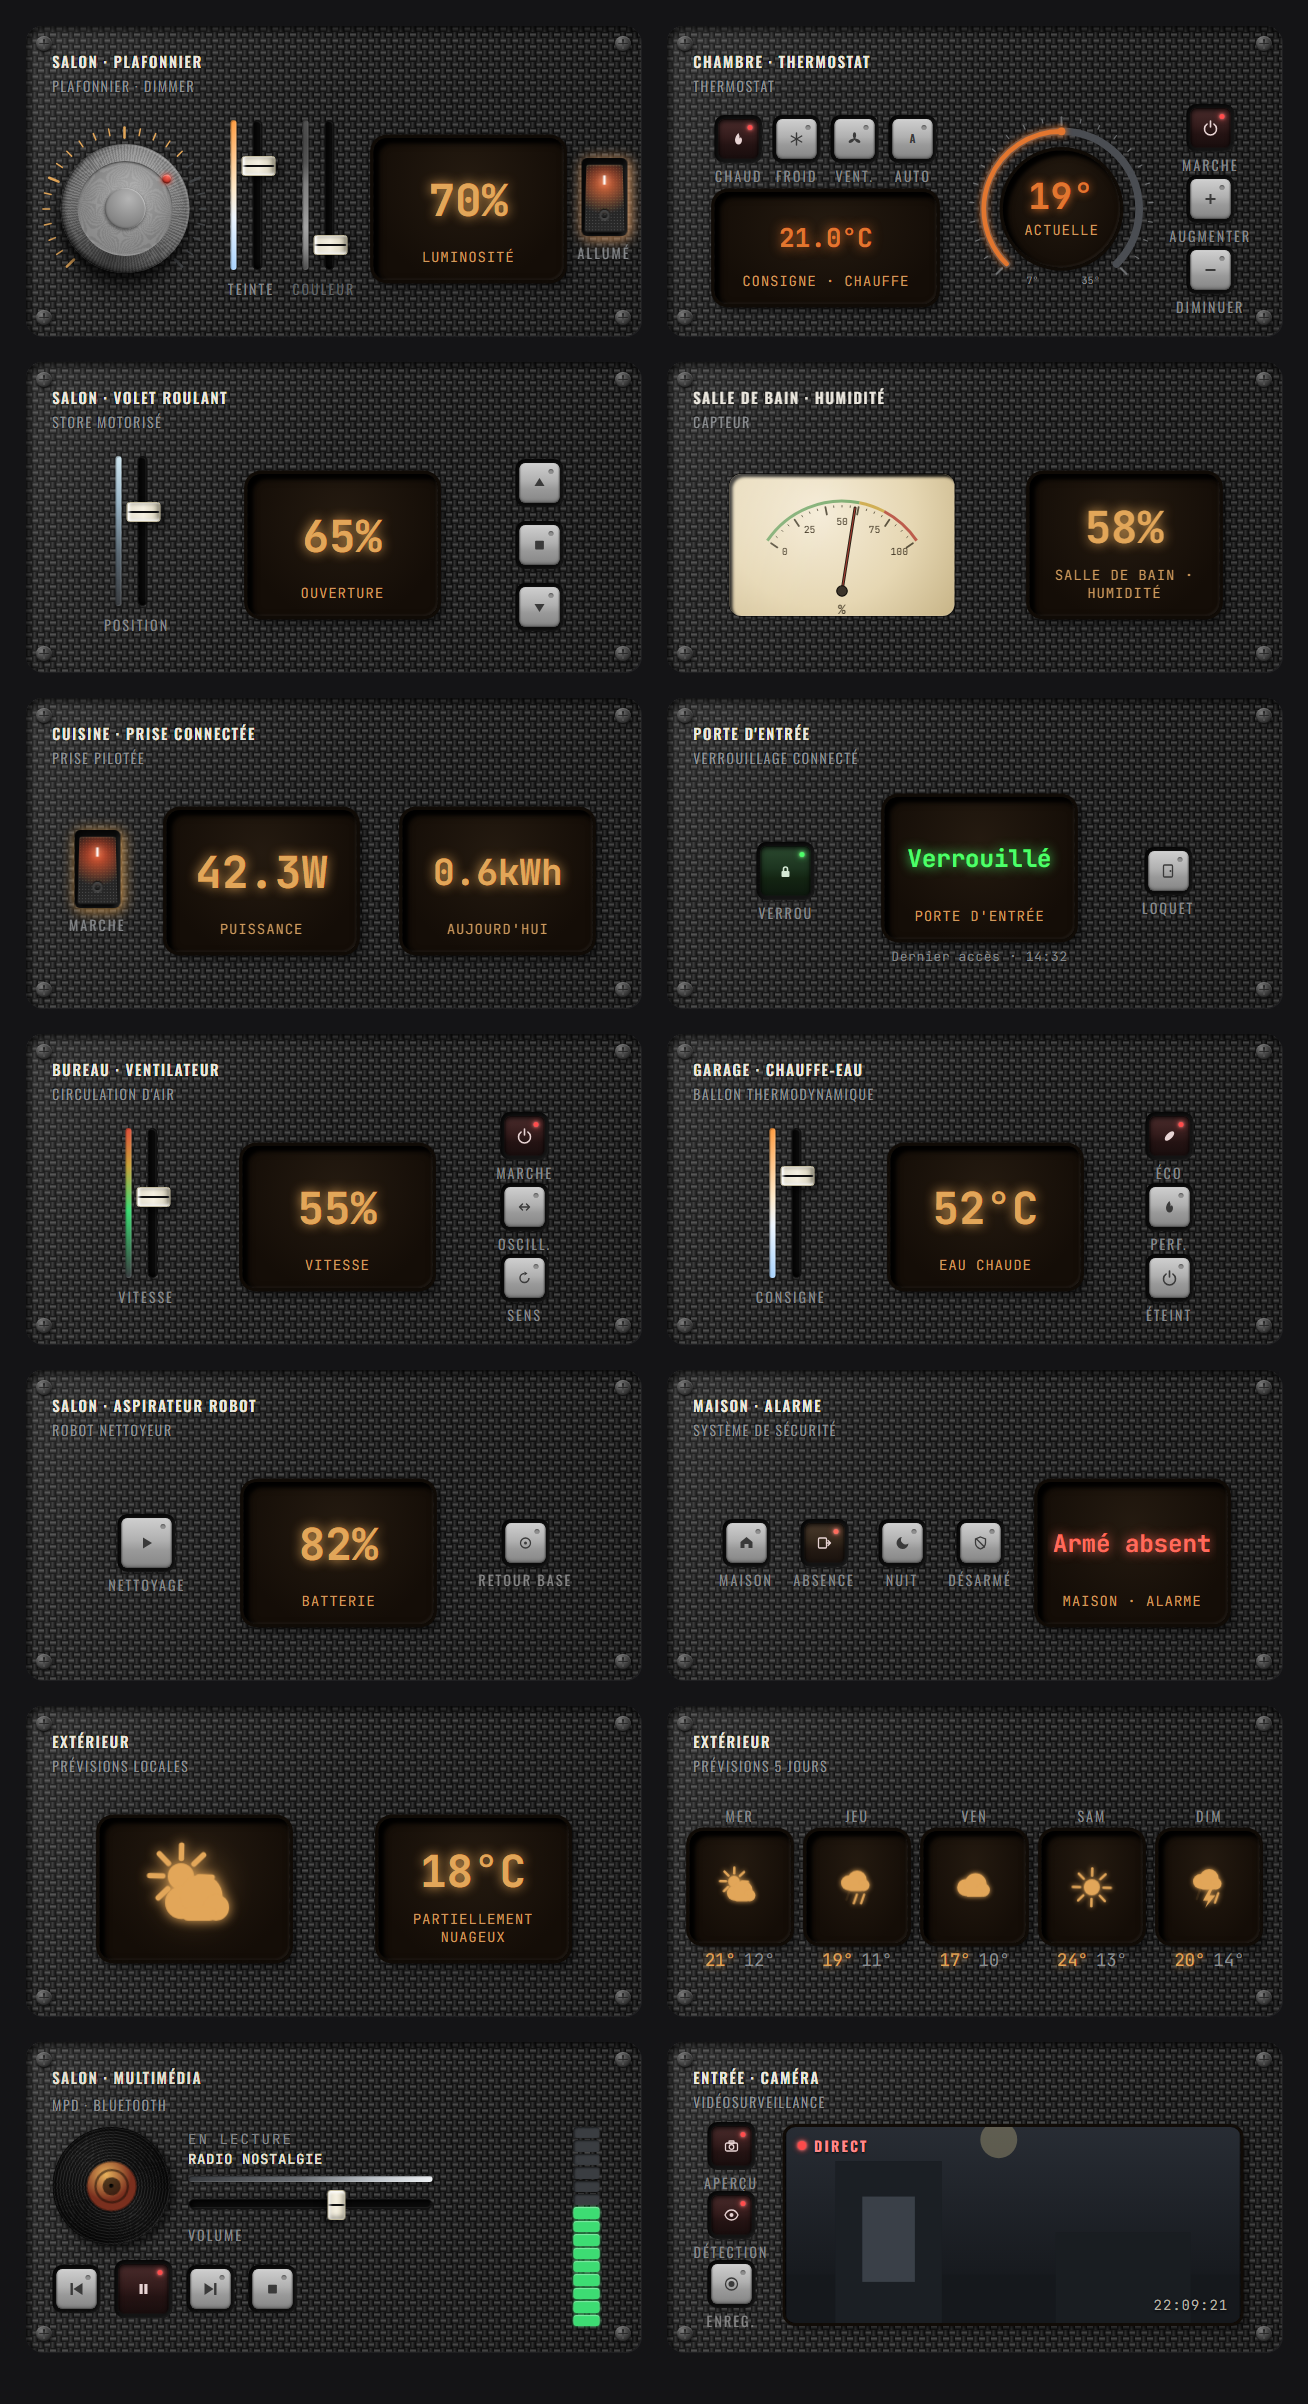
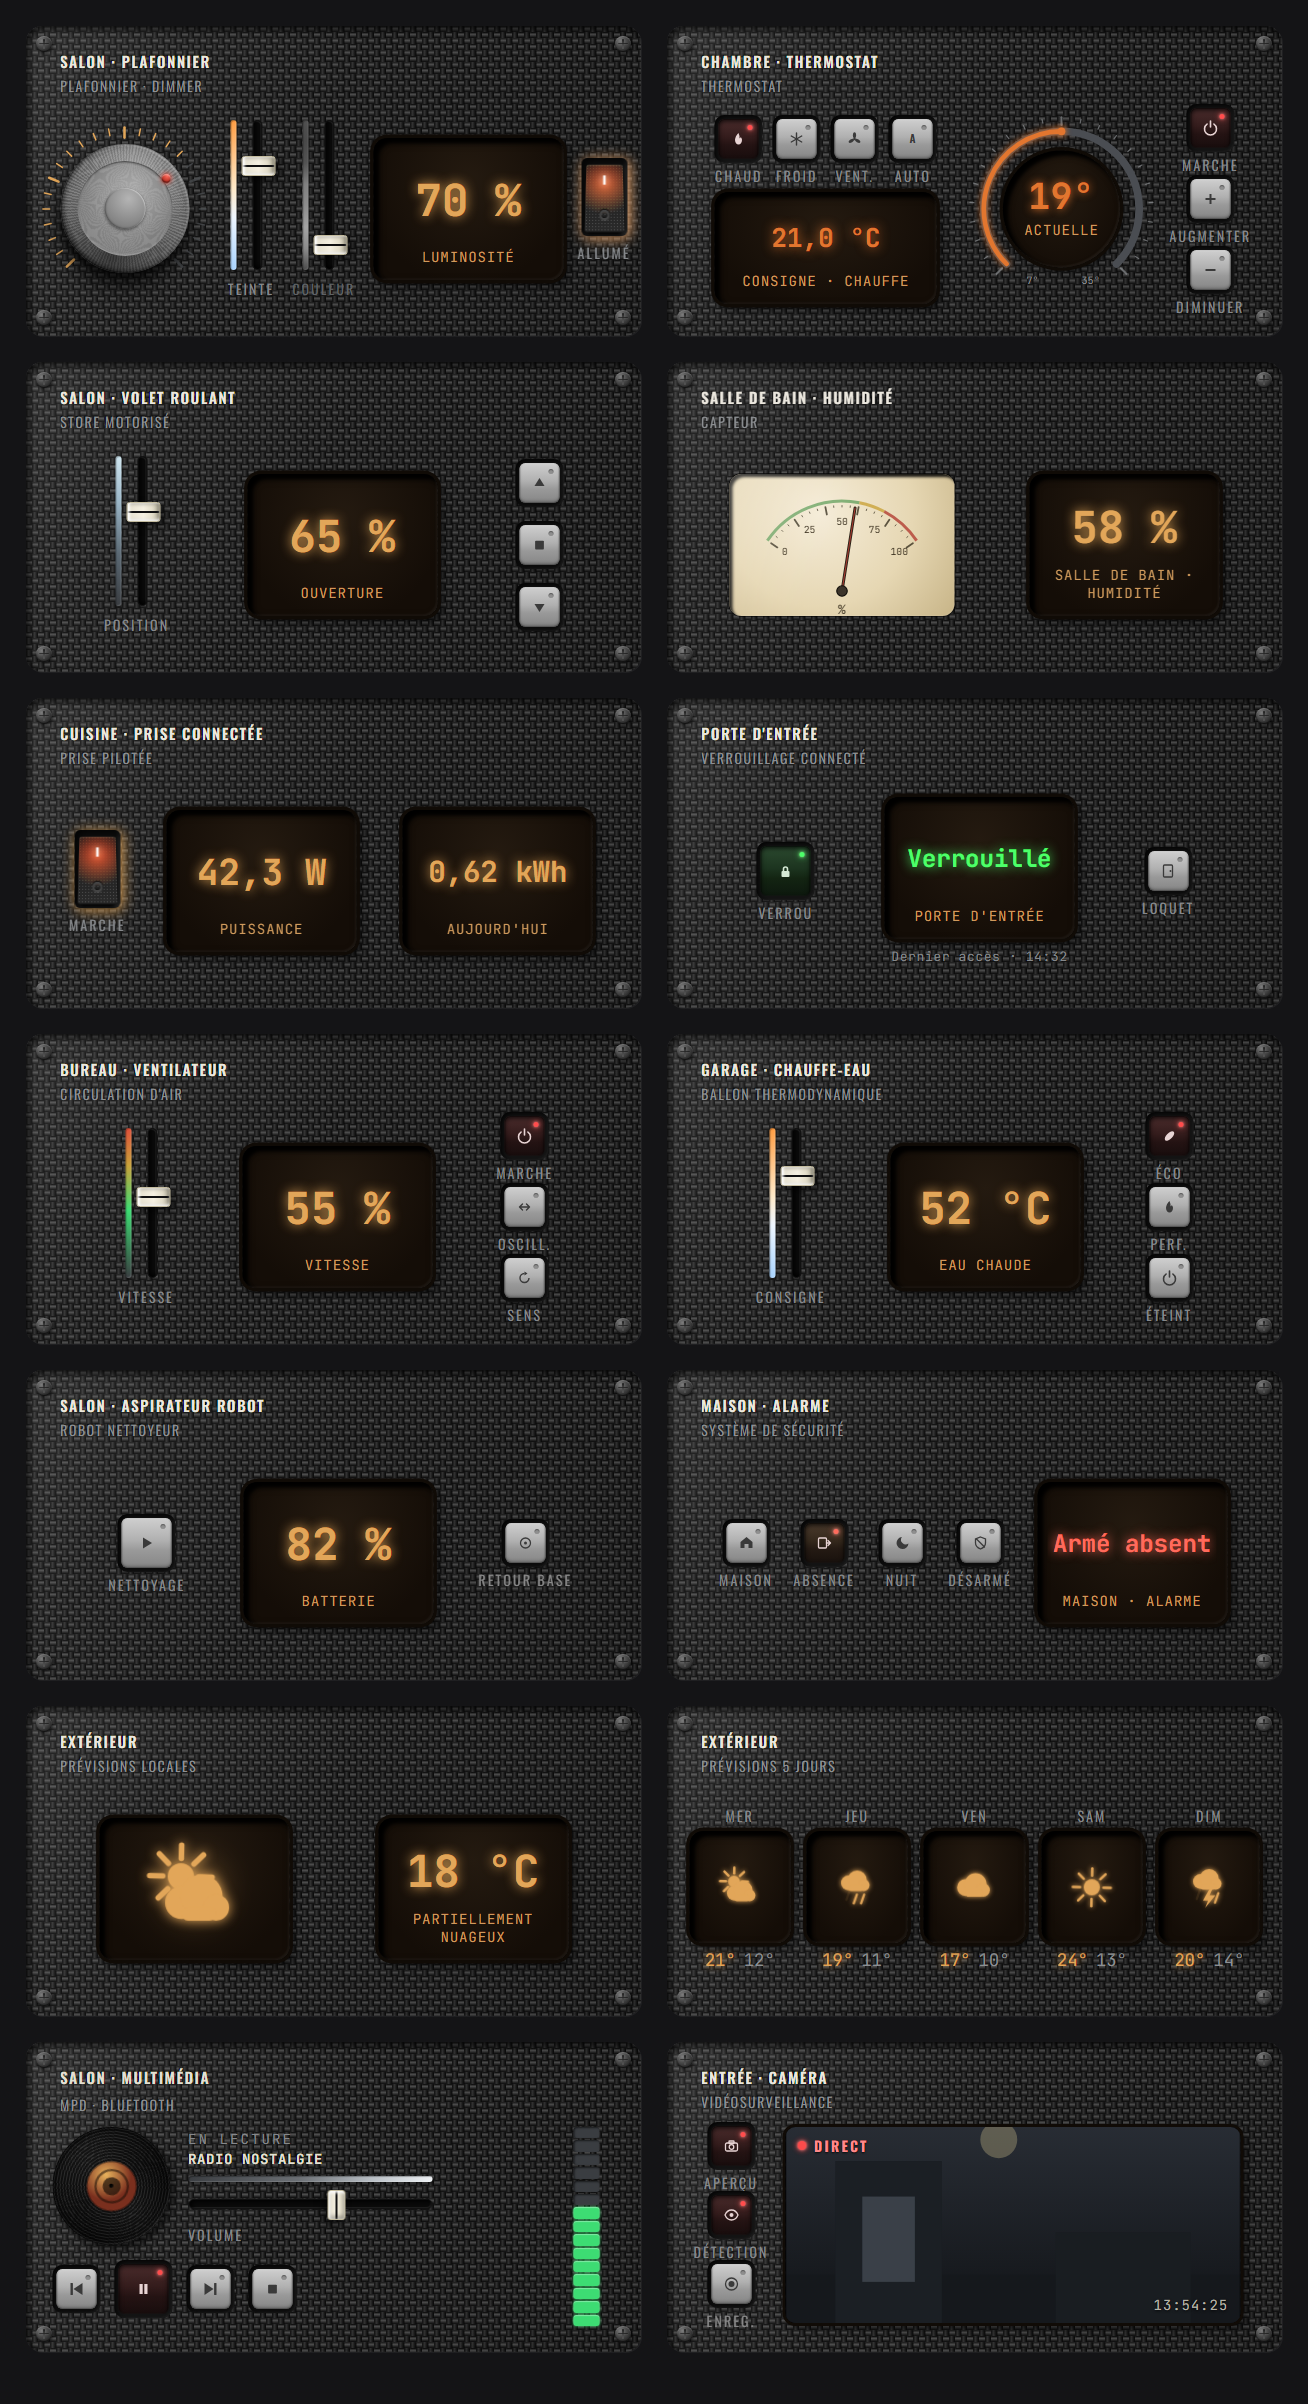
Hold the light card faders, refresh the README plates
The warmth and colour faders read the entity on every render and kept no
local value, so the cap dropped back to its previous position between the
gesture and the bulb's answer. Same defect as the other controls, other
cause, and it stayed after the first pass.

They get a plain hold rather than the smoothed value: a fader the user
has just placed must not glide on its own. HeldValue also asks for a
redraw on commit, otherwise the cap flicks back to the old position for
the interval between the gesture and the next hass tick, which is the
same defect made short.

Both README plates are regenerated with the current formatting: they
still showed 70% and 21.0°C glued.

diff --git a/dist/skeuo-cards.js b/dist/skeuo-cards.js
@@ -1747,6 +1747,57 @@ const shortTime = (iso, language) => {
   if (Number.isNaN(date.getTime())) return "";
   return date.toLocaleTimeString(language, { hour: "2-digit", minute: "2-digit" });
 };
+const PENDING_TIMEOUT$1 = 6e3;
+const now$1 = () => typeof performance !== "undefined" ? performance.now() : Date.now();
+const TICK$1 = "__skeuoHeldTick";
+class HeldValue {
+  /**
+   * L'hôte est facultatif, mais sans lui rien ne redessine la carte entre le
+   * geste et le prochain battement de `hass`. Le fader retomberait alors sur
+   * l'ancienne valeur le temps de cet intervalle, ce qui est précisément le
+   * défaut que cette classe corrige.
+   */
+  constructor(host) {
+    this._seq = 0;
+    this._pendingSince = 0;
+    this._host = host;
+  }
+  /**
+   * Valeur à afficher, connaissant celle de l'entité.
+   *
+   * Ce que l'on retient n'est pas la valeur demandée mais celle que l'entité
+   * annonçait au moment du geste : dès qu'elle en change, quelle qu'elle soit,
+   * on lui rend la main. Un appareil qui borne la demande, ou qui la refuse,
+   * reprend donc la main sans cas particulier.
+   */
+  read(fromState) {
+    if (this._pendingFrom === void 0) return fromState;
+    const attente = now$1() - this._pendingSince;
+    if (fromState !== this._pendingFrom || attente >= PENDING_TIMEOUT$1) {
+      this._pendingFrom = void 0;
+      this._local = void 0;
+      return fromState;
+    }
+    return this._local ?? fromState;
+  }
+  /** Consigne posée par l'utilisateur, à tenir jusqu'à confirmation. */
+  commit(value, fromState) {
+    if (!Number.isFinite(value)) return;
+    this._local = value;
+    this._pendingFrom = fromState;
+    this._pendingSince = now$1();
+    if (this._host) {
+      const previous = this._seq;
+      this._host[TICK$1] = ++this._seq;
+      this._host.requestUpdate(TICK$1, previous);
+    }
+  }
+  /** Au démontage, ce que dit l'entité fait autorité. */
+  reset() {
+    this._pendingFrom = void 0;
+    this._local = void 0;
+  }
+}
 const TICK = "__skeuoSmoothTick";
 const easeInOutCubic = (t2) => t2 < 0.5 ? 4 * t2 * t2 * t2 : 1 - Math.pow(-2 * t2 + 2, 3) / 2;
 const prefersReducedMotion = () => typeof matchMedia === "function" && matchMedia("(prefers-reduced-motion: reduce)").matches;
@@ -2779,6 +2830,8 @@ let SkeuoLightCard = class extends SkeuoBaseCard {
   constructor() {
     super(...arguments);
     this._brightness = new SmoothValue(this);
+    this._warmth = new HeldValue(this);
+    this._hue = new HeldValue(this);
   }
   validateConfig(config) {
     this.expectDomain(config, "light");
@@ -2878,14 +2931,20 @@ let SkeuoLightCard = class extends SkeuoBaseCard {
     const span = this._maxKelvin - this._minKelvin;
     return Math.round(this._maxKelvin - warmth / 100 * span);
   }
-  _currentWarmth(stateObj) {
+  _warmthFromState(stateObj) {
     const k2 = numericState(stateObj.attributes.color_temp_kelvin);
     return k2 === void 0 ? 50 : this._warmthFromKelvin(k2);
   }
-  _currentHue(stateObj) {
+  _currentWarmth(stateObj) {
+    return this._warmth.read(this._warmthFromState(stateObj));
+  }
+  _hueFromState(stateObj) {
     const hs = stateObj.attributes.hs_color;
     if (!Array.isArray(hs) || hs.length < 1) return 0;
     return Math.round(hs[0] / 360 * 100);
+  }
+  _currentHue(stateObj) {
+    return this._hue.read(this._hueFromState(stateObj));
   }
   /**
    * Couleur émise par l'ampoule, pour la lueur et le symbole de l'interrupteur.
@@ -2934,9 +2993,12 @@ let SkeuoLightCard = class extends SkeuoBaseCard {
     this.callService("light", "turn_on", { brightness_pct: cible });
   }
   _setWarmth(warmth) {
+    const stateObj = this.stateObj;
+    if (stateObj) this._warmth.commit(warmth, this._warmthFromState(stateObj));
     this.callService("light", "turn_on", { color_temp_kelvin: this._kelvinFromWarmth(warmth) });
   }
   _setHue(value, stateObj) {
+    this._hue.commit(value, this._hueFromState(stateObj));
     const hs = stateObj.attributes.hs_color;
     const saturation = Array.isArray(hs) && hs.length > 1 ? hs[1] : 100;
     this.callService("light", "turn_on", { hs_color: [value / 100 * 360, saturation] });
@@ -7160,7 +7222,7 @@ registerCard({
   preview: true
 });
 console.info(
-  `%c  SKEUO-CARDS  %c  v${"1.0.2-rc2"}  `,
+  `%c  SKEUO-CARDS  %c  v${"1.0.2-rc3"}  `,
   "color:#141414; font-weight:700; background:#e2a659",
   "color:#e2a659; font-weight:700; background:#141414"
 );

diff --git a/src/core/held.ts b/src/core/held.ts
@@ -1,0 +1,83 @@
+/**
+ * Tenue d'une valeur posée par l'utilisateur, sans animation.
+ *
+ * Même problème que dans SmoothValue : l'entité continue d'annoncer son
+ * ancienne valeur le temps que l'appareil réponde, et un contrôle recalé
+ * dessus repart en arrière juste après le geste. La différence est qu'ici on
+ * ne veut aucun mouvement interpolé, seulement que le curseur reste où le
+ * doigt l'a laissé. Un fader de teinte que l'on vient de placer n'a pas à
+ * glisser tout seul.
+ *
+ * Volontairement sans contrôleur ni image par image : la valeur est lue au
+ * rendu, et les rendus arrivent déjà à chaque changement de `hass`.
+ */
+
+/** Au-delà, la commande est considérée perdue et l'entité reprend la main. */
+const PENDING_TIMEOUT = 6000;
+
+const now = (): number =>
+  typeof performance !== "undefined" ? performance.now() : Date.now();
+
+/** Même mécanique que dans SmoothValue : un compteur réellement posé sur
+ *  l'hôte, sinon Lit compare deux `undefined` et annule la mise à jour. */
+const TICK = "__skeuoHeldTick";
+
+type HeldHost = {
+  requestUpdate(name?: PropertyKey, oldValue?: unknown): void;
+};
+
+export class HeldValue {
+  private _host?: HeldHost;
+  private _seq = 0;
+  private _local?: number;
+  private _pendingFrom?: number;
+  private _pendingSince = 0;
+
+  /**
+   * L'hôte est facultatif, mais sans lui rien ne redessine la carte entre le
+   * geste et le prochain battement de `hass`. Le fader retomberait alors sur
+   * l'ancienne valeur le temps de cet intervalle, ce qui est précisément le
+   * défaut que cette classe corrige.
+   */
+  constructor(host?: HeldHost) {
+    this._host = host;
+  }
+
+  /**
+   * Valeur à afficher, connaissant celle de l'entité.
+   *
+   * Ce que l'on retient n'est pas la valeur demandée mais celle que l'entité
+   * annonçait au moment du geste : dès qu'elle en change, quelle qu'elle soit,
+   * on lui rend la main. Un appareil qui borne la demande, ou qui la refuse,
+   * reprend donc la main sans cas particulier.
+   */
+  public read(fromState: number): number {
+    if (this._pendingFrom === undefined) return fromState;
+    const attente = now() - this._pendingSince;
+    if (fromState !== this._pendingFrom || attente >= PENDING_TIMEOUT) {
+      this._pendingFrom = undefined;
+      this._local = undefined;
+      return fromState;
+    }
+    return this._local ?? fromState;
+  }
+
+  /** Consigne posée par l'utilisateur, à tenir jusqu'à confirmation. */
+  public commit(value: number, fromState: number): void {
+    if (!Number.isFinite(value)) return;
+    this._local = value;
+    this._pendingFrom = fromState;
+    this._pendingSince = now();
+    if (this._host) {
+      const previous = this._seq;
+      (this._host as unknown as Record<string, unknown>)[TICK] = ++this._seq;
+      this._host.requestUpdate(TICK, previous);
+    }
+  }
+
+  /** Au démontage, ce que dit l'entité fait autorité. */
+  public reset(): void {
+    this._pendingFrom = undefined;
+    this._local = undefined;
+  }
+}

diff --git a/src/cards/light-card.ts b/src/cards/light-card.ts
@@ -13,6 +13,7 @@ import { type HassEntity, isActive, isUnavailable, numericState } from "../core/
 import { domainRequired, t, tHa } from "../core/localize";
 import { baseSchema, computeHelper, computeLabel, registerCard } from "../core/register";
 import { formatFixed } from "../core/format";
+import { HeldValue } from "../core/held";
 import { SmoothValue } from "../core/smooth";
 
 import "../components/screen";
@@ -89,6 +90,14 @@ export class SkeuoLightCard extends SkeuoBaseCard<LightCardConfig> {
    * défaut du contrôleur conviennent tels quels.
    */
   private _brightness = new SmoothValue(this);
+
+  /**
+   * Les deux faders ne sont pas lissés : on ne veut pas qu'un curseur que
+   * l'utilisateur vient de poser reparte tout seul. Ils ont en revanche le
+   * même besoin de tenir leur valeur le temps que la lampe confirme.
+   */
+  private _warmth = new HeldValue(this);
+  private _hue = new HeldValue(this);
 
   protected override validateConfig(config: LightCardConfig): void {
     this.expectDomain(config, "light");
@@ -215,15 +224,23 @@ export class SkeuoLightCard extends SkeuoBaseCard<LightCardConfig> {
     return Math.round(this._maxKelvin - (warmth / 100) * span);
   }
 
-  private _currentWarmth(stateObj: HassEntity): number {
+  private _warmthFromState(stateObj: HassEntity): number {
     const k = numericState(stateObj.attributes.color_temp_kelvin);
     return k === undefined ? 50 : this._warmthFromKelvin(k);
   }
 
-  private _currentHue(stateObj: HassEntity): number {
+  private _currentWarmth(stateObj: HassEntity): number {
+    return this._warmth.read(this._warmthFromState(stateObj));
+  }
+
+  private _hueFromState(stateObj: HassEntity): number {
     const hs = stateObj.attributes.hs_color;
     if (!Array.isArray(hs) || hs.length < 1) return 0;
     return Math.round(((hs[0] as number) / 360) * 100);
+  }
+
+  private _currentHue(stateObj: HassEntity): number {
+    return this._hue.read(this._hueFromState(stateObj));
   }
 
   /**
@@ -277,10 +294,13 @@ export class SkeuoLightCard extends SkeuoBaseCard<LightCardConfig> {
   }
 
   private _setWarmth(warmth: number): void {
+    const stateObj = this.stateObj;
+    if (stateObj) this._warmth.commit(warmth, this._warmthFromState(stateObj));
     this.callService("light", "turn_on", { color_temp_kelvin: this._kelvinFromWarmth(warmth) });
   }
 
   private _setHue(value: number, stateObj: HassEntity): void {
+    this._hue.commit(value, this._hueFromState(stateObj));
     const hs = stateObj.attributes.hs_color;
     const saturation = Array.isArray(hs) && hs.length > 1 ? (hs[1] as number) : 100;
     this.callService("light", "turn_on", { hs_color: [(value / 100) * 360, saturation] });

diff --git a/dev/consignes.html b/dev/consignes.html
@@ -25,6 +25,10 @@ const etats = {
   "light.salon": { entity_id: "light.salon", state: "on", ...socle, attributes: {
     friendly_name: "Plafonnier", brightness: 128, supported_color_modes: ["color_temp"],
     min_color_temp_kelvin: 2000, max_color_temp_kelvin: 6500, color_temp_kelvin: 3200 } },
+  "light.couleur": { entity_id: "light.couleur", state: "on", ...socle, attributes: {
+    friendly_name: "Bandeau", brightness: 200, supported_color_modes: ["color_temp", "hs"],
+    color_mode: "hs", min_color_temp_kelvin: 2000, max_color_temp_kelvin: 6500,
+    color_temp_kelvin: 3200, hs_color: [36, 80], rgb_color: [255, 190, 105] } },
   "cover.salon": { entity_id: "cover.salon", state: "open", ...socle, attributes: {
     friendly_name: "Store", current_position: 40, supported_features: 15 } },
   "fan.bureau": { entity_id: "fan.bureau", state: "on", ...socle, attributes: {
@@ -151,6 +155,24 @@ rapport.push(await eprouver({
   geste: (el) => { const s = el.stateObj; el._nudge(s, 1); el._nudge(s, 1); el._nudge(s, 1); },
   lire: (el) => el._setpoint.value, attendu: 20.5,
   apres: { temperature: 20.5 },
+}));
+
+// Les deux faders de la carte lumière ne sont pas lissés, mais ils doivent
+// tenir leur position de la même façon.
+rapport.push(await eprouver({
+  carte: "skeuo-light-card", entite: "light.couleur",
+  geste: (el) => el._setWarmth(80),
+  lire: (el) => el.shadowRoot.querySelector('skeuo-fader[gradient="warmth"]').value,
+  attendu: 80,
+  apres: { color_temp_kelvin: 2900 },
+}));
+
+rapport.push(await eprouver({
+  carte: "skeuo-light-card", entite: "light.couleur",
+  geste: (el) => el._setHue(30, el.stateObj),
+  lire: (el) => el.shadowRoot.querySelector('skeuo-fader[gradient="hue"]').value,
+  attendu: 30,
+  apres: { hs_color: [108, 80] },
 }));
 
 // L'appareil borne la demande : la carte doit suivre ce qu'il annonce, pas

diff --git a/CHANGELOG.md b/CHANGELOG.md
@@ -15,6 +15,10 @@
   previous value and travels the same path again once the device confirms.
   The card holds the value you set until the entity actually moves, or until
   the command has clearly been lost.
+- The warmth and colour faders on the light card hold their position too.
+  They read the entity on every render and had no local value of their own, so
+  the cap dropped back to where it was until the bulb answered. They are not
+  smoothed: a fader the user has just placed should not glide on its own.
 - The thermostat setpoint now reacts on press instead of on reply, and
   repeated presses accumulate. Three taps on plus used to compute the same
   single step three times while the thermostat had yet to answer, so the
